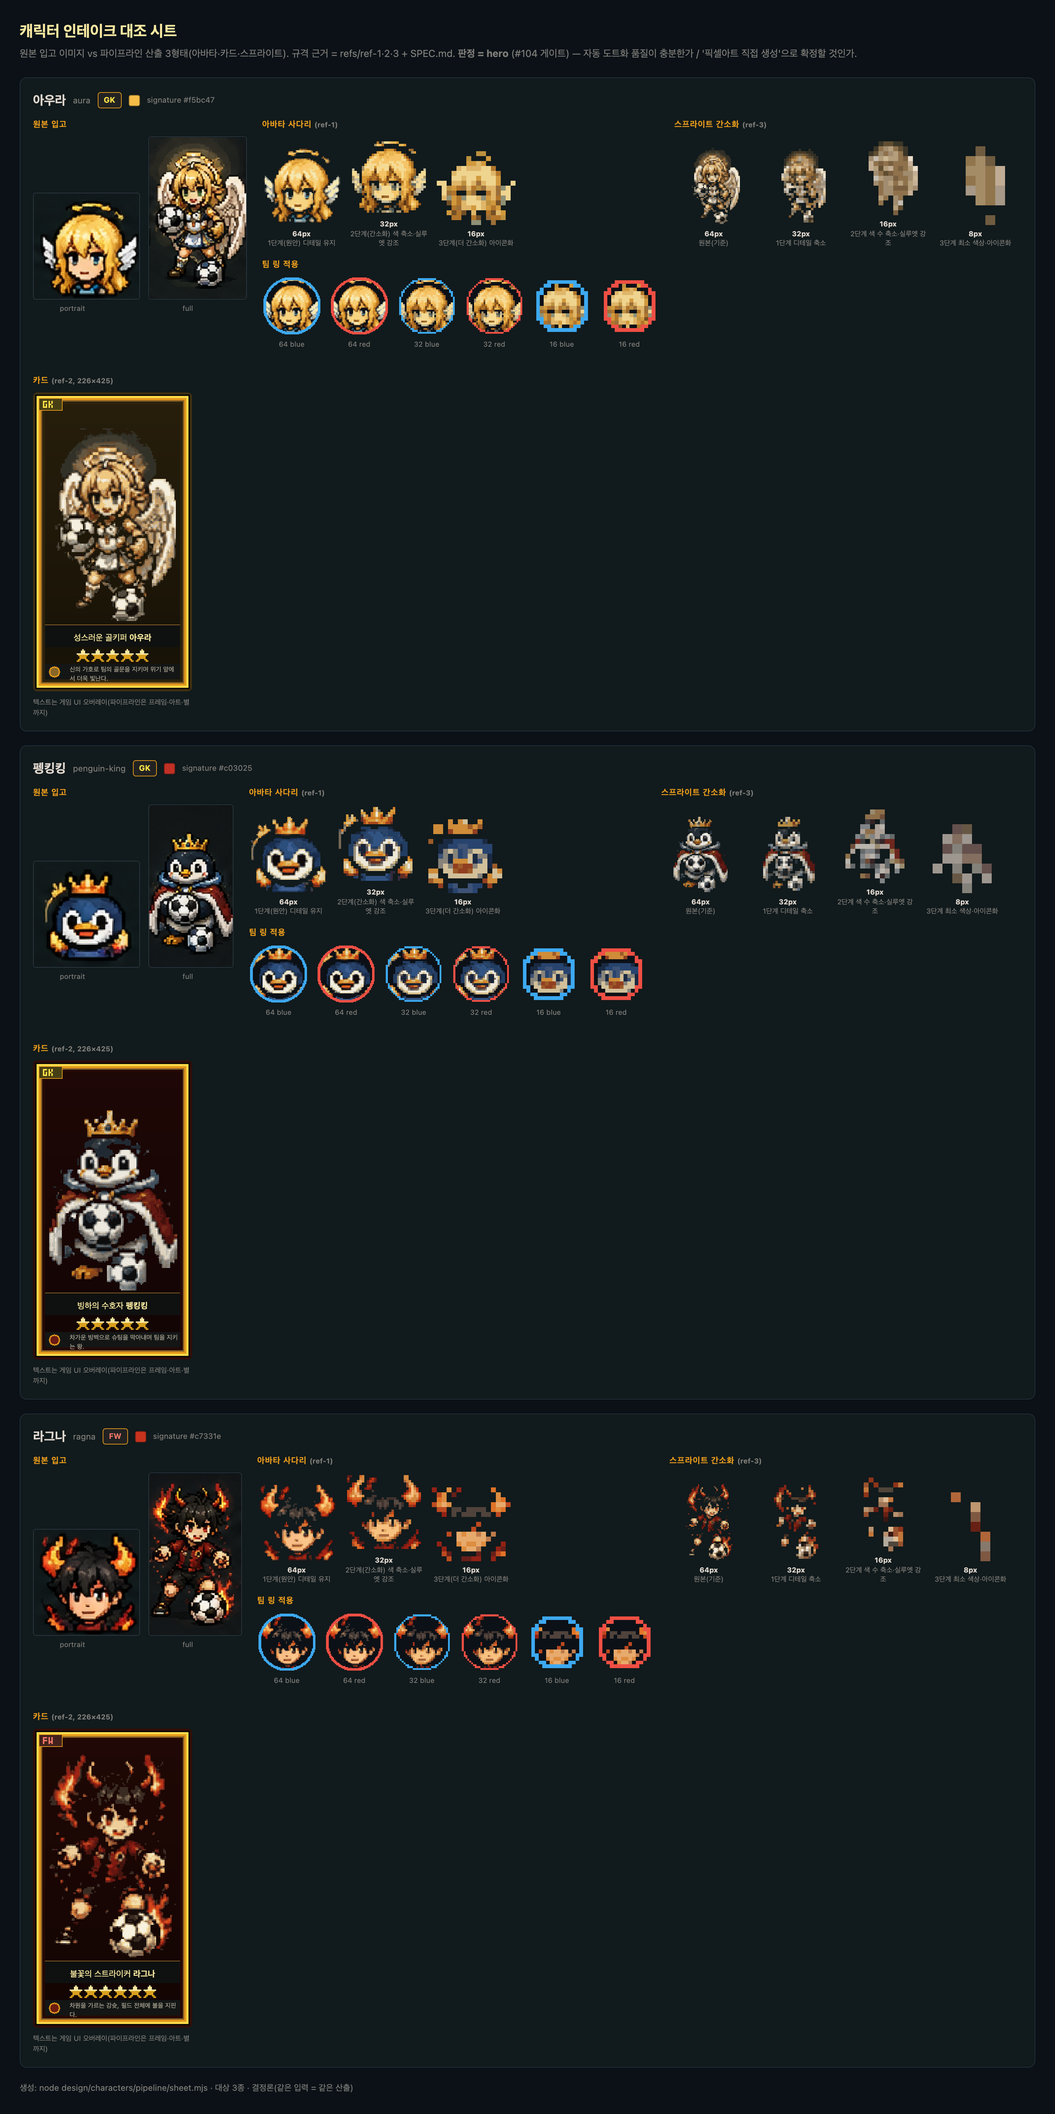
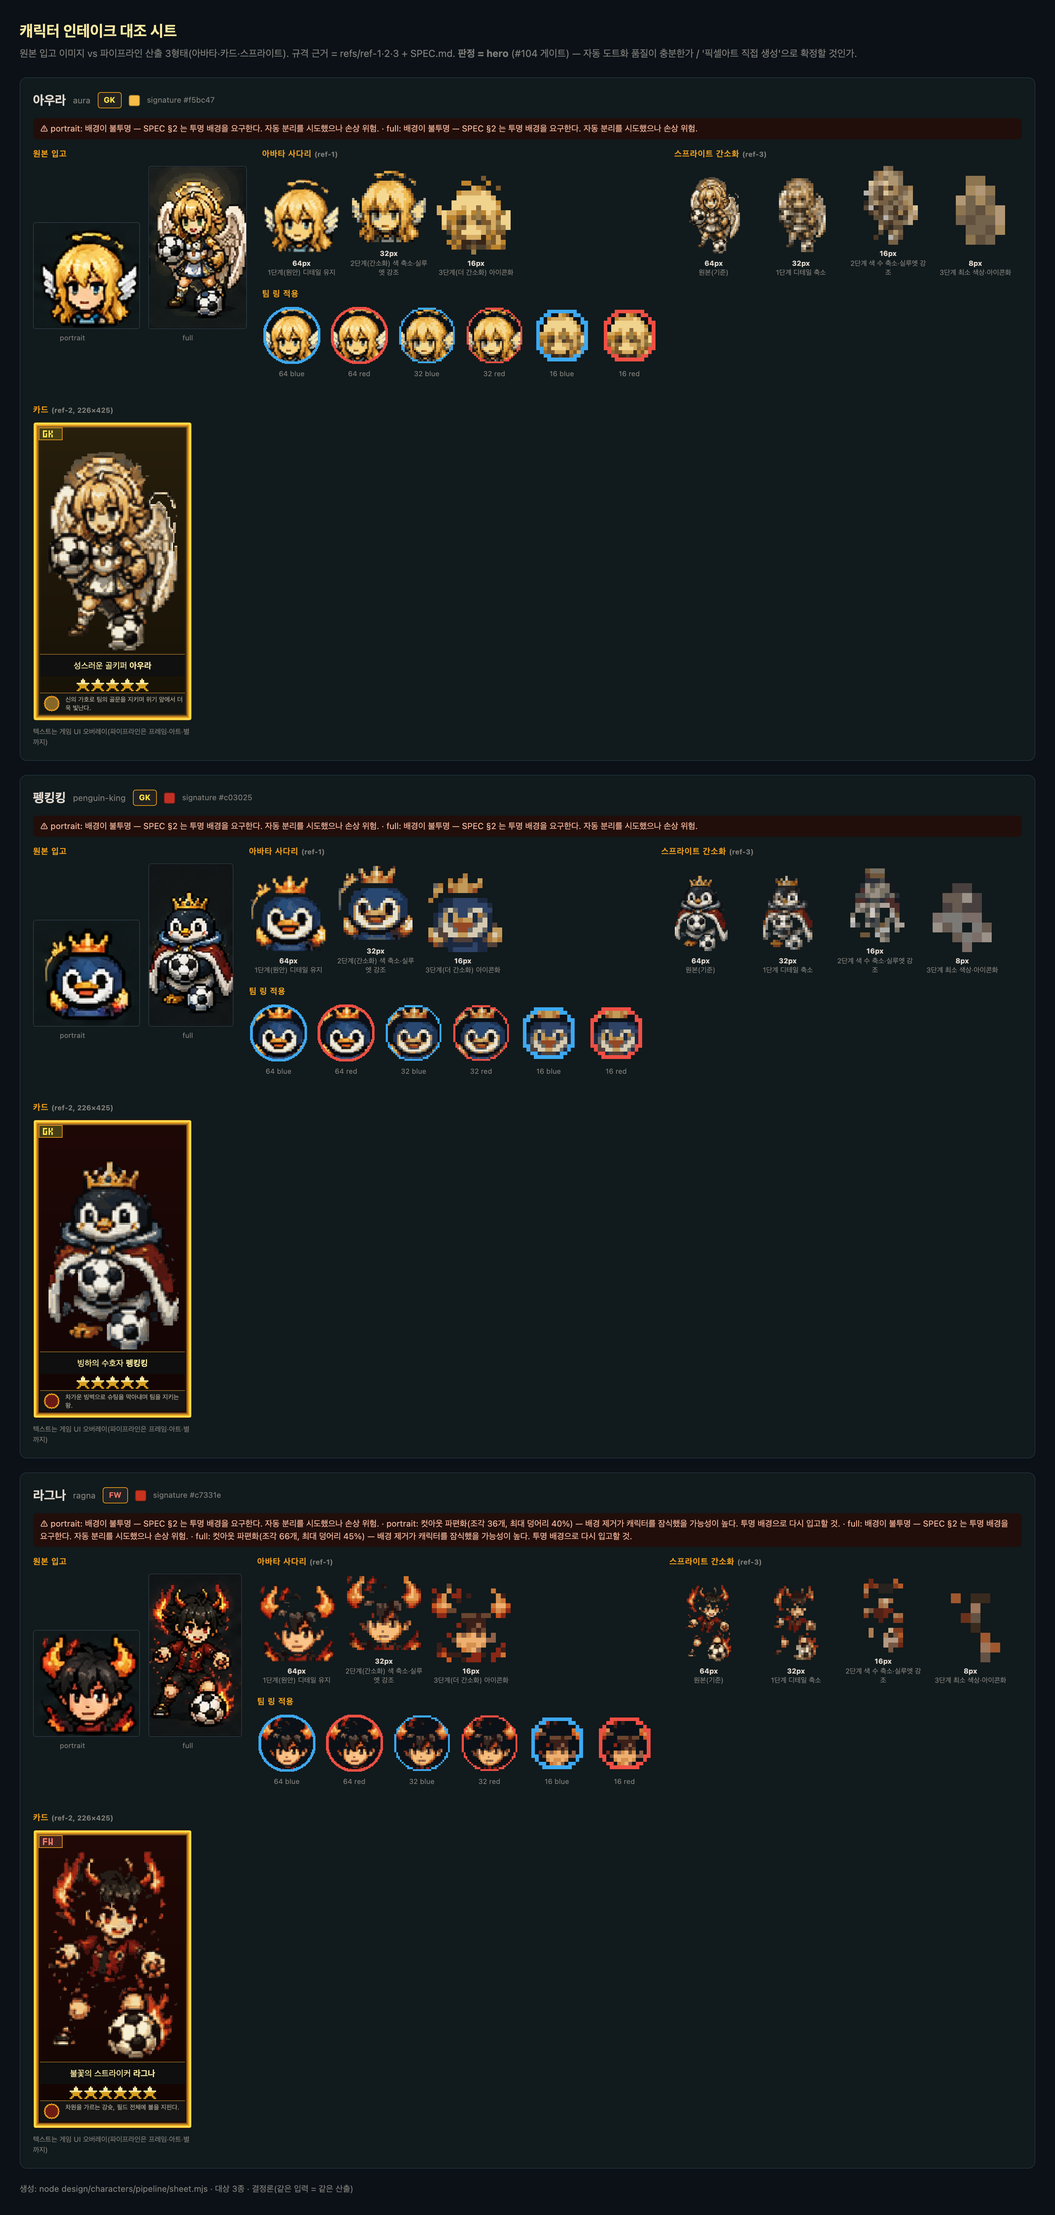
[Spider] fix(chars): 독립 검증 blocker 3건 + non-blocker 다수 수정 (#104)
독립 검증(module-verifier) VERDICT: FAIL 에 대한 대응.

B1 배경 제거가 캐릭터를 조용히 파괴 — 전역 tolerance flood fill 을
지역 기울기 영역확장으로 교체하고, 더 중요하게 cutoutQuality() 품질
게이트를 추가(연결요소 파편화·내부 구멍 검출)해 손상을 경고로 노출.
어두운 배경 x 어두운 캐릭터는 안전한 임계가 존재하지 않음을 실측 확인
(라그나: 조각 36/66개, 최대 덩어리 40/45% 로 자동 검출됨).

B2 PILOT-P2 결론 오귀속 — "<=16px 3종 모두 붕괴, 원리적 자동화 불가"
철회. 붕괴 주원인은 도트화가 아니라 배경 제거 손상이었고 펭킹킹 16px
은 식별 가능하다. 결정 변수는 해상도가 아니라 실루엣 단순성·색 대비.
파일럿 입력이 SPEC 위반(불투명 배경)이었음을 명시하고 재작성.

B3 입고 검증 임계가 SPEC 의 절반(256/512) — SPEC 값(512x512 /
512x1024)으로 정정 + 정사각·1:2 비율 검증 추가.

non-blocker: 카드 프레임 ref-2 재실측(인셋 17->10px, 금테 7px) ·
설명판/아이콘 확대 · blendRect 로 반투명 밴드 합성(알파 잔류 제거) ·
죽은 구분선 코드 · 잘린 IDAT 거부 · circleWithRing 크기 가정 ·
charId 대소문자 검증 · 시트 설명문 오버플로 · 링 내부색 #0b1117.

measurements.ref103.json 의 ref2_frame_scan_y300 좌표계 오류는
#103 이슈 레이즈 대상으로 문서화(그쪽 소유 파일이라 수정 안 함).

diff --git a/design/characters/PILOT-P2.md b/design/characters/PILOT-P2.md
@@ -1,56 +1,90 @@
-# P2 파일럿 결과 — 자동 도트화 품질 상한 실측 (#104)
+# P2 파일럿 결과 — 자동 변환 품질 상한 실측 (#104)
 
-**일자** 2026-07-20 · **대상** 라그나(FW) · 아우라(GK) · 펭킹킹(GK) 3종
-**증빙** `contact-sheet.png` (원본 vs 산출 3형태 대조) · 산출 42개(`out/<id>/`)
-**판정 주체 = hero.** 아래는 파이프라인이 측정한 사실과 그로부터의 권고이며, 확정은 #104 게이트.
+**일자** 2026-07-20 (v2 — 독립 검증 FAIL 후 재작성) · **대상** 라그나(FW) · 아우라(GK) · 펭킹킹(GK)
+**증빙** `contact-sheet.png` · 산출 42개(`out/<id>/`) · **판정 주체 = hero**(아래는 측정 사실과 권고이며 확정은 #104 게이트)
+
+> **v1 철회 이력(중요).** 초판은 "≤16px 은 3종 모두 붕괴 → 저해상 자동화는 원리적으로 불가"라고 결론냈다.
+> 독립 검증 결과 **오귀속**이었다. 붕괴의 주원인은 도트화가 아니라 **배경 제거 단계의 손상**이었고,
+> "3종 모두"도 사실이 아니었다(펭킹킹 16px 은 식별 가능). 해당 문장은 전부 철회하고 아래로 대체한다.
+> 파이프라인도 함께 고쳤다(§4).
 
 ---
 
-## 1. 파일럿 입력의 성격 (중요 — 결과 해석에 영향)
+## 1. 파일럿 입력의 성격 — **SPEC 위반 입력이었다**
 
-입력은 레퍼 이미지에서 크롭한 **이미 픽셀아트인** 소스다(ref-1 얼굴 90px, ref-3 전신 ~112×197 → nearest ×6 업스케일).
-즉 **자동 도트화에 가장 유리한 조건**이다. 일반 일러스트(부드러운 셰이딩·그라디언트)를 넣으면 결과는 이보다 나빠진다.
-→ 아래 결과는 **품질 상한(best case)** 으로 읽어야 한다.
+입력은 레퍼에서 크롭한 **이미 픽셀아트**인 소스다(ref-1 얼굴 90px, ref-3 전신 ~112×197 → nearest ×6).
+그러나 배경이 **완전 불투명 다크 패널**이라, SPEC.md §2 가 필수로 요구하는 "투명 배경(불가 시 캐릭터에 없는 단색)"을 **정면으로 위반**한다.
+즉 이 파일럿은 도트화의 best case 가 아니라 **배경 분리의 worst case**(어두운 배경 위 어두운 캐릭터)를 함께 측정했다.
 
-## 2. 결과 (contact-sheet.png 육안 판정)
+→ 결과는 **두 단계로 분리해서** 읽어야 한다: ① 배경 분리 ② 도트화.
 
-| 단계 | 판정 | 근거 |
+## 2. ① 배경 분리 — 어두운 배경 × 어두운 캐릭터는 **원리적으로 분리 불가**
+
+전역 tolerance flood fill 을 지역 기울기 영역확장으로 교체해도 결론은 같다. 임계를 낮추면 배경이 안 지워지고, 높이면 캐릭터의 검은 머리·의상을 먹는다. 그 사이에 **안전한 값이 존재하지 않는다**.
+
+| 캐릭터 | 결과 | 컷아웃 파편(조각/최대덩어리) |
 |---|---|---|
-| **카드 (ref-2)** | ✅ **양호** | 프레임·별·뱃지·아트 배치 전부 규격대로. 아트 96×157 도트 → nearest ×2 로 픽셀 격자 보존. 3종 모두 캐릭터 식별 가능. |
-| **아바타 64px** | ✅ 양호 | 얼굴·머리장식(뿔/후광/왕관) 식별됨. 팀 링 적용도 정상. |
-| **아바타 32px** | 🟡 경계 | 식별은 되나 얼굴 디테일이 뭉갬. ref-1 2단계(손으로 찍은 것)보다 명확히 열위. |
-| **아바타 16px** | ❌ **실패** | 3종 모두 형태 붕괴. 아우라=베이지 덩어리, 라그나=회/적 블롭. ref-1 3단계는 실루엣+핵심컬러로 식별되는데 자동 산출은 안 된다. |
-| **스프라이트 64/32px** | 🟡 경계 | 전신 실루엣은 남지만 장비·색 구분이 흐려짐. |
-| **스프라이트 16/8px** | ❌ **실패** | 아우라 16/8 = 베이지 얼룩, 라그나 8px = 픽셀 3~4개. ref-3 의 2·3단계는 여전히 인식 가능한데 자동 산출은 정보가 남지 않는다. |
+| 아우라 | ✅ 분리 성공 (밝은 금발·흰 날개 = 배경과 대비 큼) | 통과 |
+| 펭킹킹 | ✅ 분리 성공 (흰 얼굴·빨간 망토) | 통과 |
+| **라그나** | ❌ **실패** — 검은 머리·검은 바지가 다크 패널과 융합, 다리·머리 소실 | portrait 36조각/40% · full 66조각/45% |
 
-**한 줄**: 자동 도트화는 **32px 이상에서만 실용**, **≤16px 은 실패**. 그런데 게임에서 실제로 많이 쓰이는 건 저해상 단계다(피치 위 선수, 소형 아바타).
+**이건 도트화 품질과 무관한 별개의 실패다.** 라그나의 저해상 산출이 뭉개진 1차 원인은 여기다.
+→ **SPEC §2 의 투명 배경 요구는 권고가 아니라 필수 조건**임이 실증됐다.
 
-## 3. 부수 발견 (수정 완료)
+## 3. ② 도트화 — 배경 분리에 성공한 2종 기준
+
+라그나는 입력이 이미 손상됐으므로 도트화 판정에서 **제외**한다(오염된 표본).
+
+| 단계 | 아우라 | 펭킹킹 | 판정 |
+|---|---|---|---|
+| **카드 (ref-2)** | ✅ | ✅ | **양호** — 프레임·별·뱃지·아트 배치 정상, 캐릭터 식별 명확 |
+| 아바타 64px | ✅ | ✅ | **양호** |
+| 아바타 32px | ✅ | ✅ | **양호** (v1 의 "경계" 판정은 배경 손상 탓이었음) |
+| **아바타 16px** | ❌ 얼굴 뭉갬 | ✅ **식별 가능**(왕관·파란 몸통·흰 얼굴·주황 부리) | **소스에 따라 갈림** |
+| 스프라이트 64/32px | ✅ | ✅ | 양호 |
+| **스프라이트 16/8px** | ❌ | ❌ | **실패** — 전신은 정보량이 많아 이 크기에 안 들어간다 |
+
+**결정 변수는 해상도가 아니라 소스의 실루엣 단순성과 색 대비다.**
+펭킹킹(굵은 실루엣·고대비 블록)은 16px 에서 살아남고, 아우라(섬세한 얼굴·비슷한 명도의 금발/날개)는 무너진다.
+전신 스프라이트는 ≤16px 에서 2종 모두 실패 — 얼굴 아바타보다 담아야 할 정보가 많기 때문.
+
+## 4. 검증 지적으로 고친 것
 
 | 발견 | 조치 |
 |---|---|
-| 카드 아트가 작게 박힘 — 세로 캐릭터를 정사각 캔버스에 맞춘 탓 | `dotify(w,h,...)` 로 분리, 카드 아트는 아트영역의 정확히 1/2(96×157)로 도트화 후 nearest ×2 |
-| 시그니처 자동 추출이 어두운 의상·그림자를 고름(아우라 → `#675638`) | 채도·중간명도 가중 히스토그램 + 강조색 정규화. 아우라 → `#f5bc47` (레퍼 `#eec830` 과 정합) |
-| 설명판 아이콘(r=16)이 프레임에 잘림 | r=9, 설명판 내부 높이에 맞춤 |
-| 시그니처 오라가 밝아 어두운 캐릭터(라그나)가 배경에 동화 | 오라 계수 0.16→0.09 로 하향 |
+| **배경 제거가 캐릭터를 조용히 파괴** | 전역 tolerance flood fill → **지역 기울기 영역확장**으로 교체. 더 중요하게 **컷아웃 품질 게이트 추가**(`cutoutQuality`: 연결요소 파편화·내부 구멍 검출) → 손상 시 `report.warnings` 로 경고. 이제 라그나는 "조각 36개, 최대 덩어리 40%" 로 **자동 검출된다** |
+| 입고 검증 임계가 SPEC 의 절반(256/512) | SPEC 값(512×512 / 512×1024)으로 정정 + **정사각·1:2 비율 검증 추가** |
+| 카드 프레임이 ref-2 대비 ~2배 두꺼움 | ref-2 **재실측**(카드 원점 x=22, y=300 스캔: local x1..x7 = 금 7px) → 인셋 17px → **10px** |
+| 설명판이 너무 얕고 아이콘이 작음 | 설명판을 하단 프레임까지 꽉 채우고 아이콘을 패널 높이에 맞춰 자동 산출(지름 17 → 24px) |
+| 반투명 밴드가 `fillRect`(덮어쓰기)로 그려져 알파가 산출물에 잔류 | `blendRect`(src-over) 추가·적용 → 카드가 완전 불투명 |
+| 별 밴드 하단 구분선이 설명판에 덮여 안 보이는 죽은 코드 | 구분선을 설명판 상단(`descY-1`)으로 이동 |
+| 잘린 IDAT 를 조용히 수용(빈 이미지 반환) | 압축해제 길이 검증 → 명시적 에러 |
+| `circleWithRing` 이 소스 크기를 가정해 조용히 크롭 | 크기 불일치 시 리사이즈 |
+| `Ragna__portrait.png` 가 별개 캐릭터로 등록됨 | charId 를 소문자 kebab-case 로 검증, 위반 시 건너뛰고 경고 |
+| 대조 시트 설명문이 카드 프레임 밖으로 넘침 | 설명판 영역 안으로 클리핑 |
+| 링 내부 배경색 `#0c1117` (팔레트는 `#0b1117`) | 정정 |
 
-## 4. 남는 한계 (수정으로 못 없앰)
+## 5. 남는 한계
 
-- **시그니처 색 자동 추출은 "면적 최대 채도색"** 이라 테마색과 다를 수 있다. 펭킹킹 → `#c03025`(빨간 망토)가 뽑혔지만 테마는 빙하(레퍼 `#326e8a`).
-  → **`incoming/<id>.json` 에 `signature`/`frame` 을 명시하는 것을 권장**, 자동 추출은 폴백으로만.
-- **저해상 단계(≤16px)는 원리적으로 자동화 불가.** 픽셀 수가 줄면 "무엇을 남길지"는 정보 축약이 아니라 **작가의 선택**이다.
+- **시그니처 자동 추출은 "면적 최대 채도색"** 이라 테마색과 어긋난다. 3종 중 **2종 불일치**: 펭킹킹 `#c03025`(빨간 망토, 테마는 빙하 `#326e8a`), 라그나 `#c7331e`(레퍼 `#f7a051`). 아우라만 일치(`#f5bc47` vs `#eec830`).
+  → **`incoming/<id>.json` 에 `signature`/`frame` 명시 권장**, 자동은 폴백.
+- **저해상 단계는 소스 의존적**이라 자동화 결과를 신뢰할 수 없다 — 되는 캐릭터와 안 되는 캐릭터가 갈린다.
+- **비-PNG 입력 경로는 macOS `sips` 의존**이라 결정론·이식성 미보증(PNG 경로만 검증됨).
+- **레퍼 실측치 충돌**: `measurements.ref103.json` 의 `ref2_frame_scan_y300` 은 절대좌표에 카드 밖 글로우 5px 를 포함해 금테 두께가 과대 측정돼 있다. `row_y:105` 도 재실측값(y≈111)과 어긋난다. → **#103 에 이슈 레이즈 필요**(그쪽 소유 파일).
 
-## 5. 권고 (hero 판정 대기)
+## 6. 권고 (hero 판정 대기)
 
-1. **SPEC 을 A안(픽셀아트 직접 생성) 권장으로 확정**한다 — 이미 SPEC.md §4 가 A안 권장이며, 이 파일럿이 근거를 실측으로 채웠다.
-2. **저해상 단계는 별도 입고**를 권장: hero 가 16px/8px 을 직접 생성(또는 손보정)하면 `incoming/<id>__sprite16.png` 같은 오버라이드 슬롯으로 받도록 파이프라인을 확장한다(미구현 — hero 승인 시 P3 에서).
-3. **32px 이상 + 카드**는 자동 파이프라인으로 충분하다 — 그대로 간다.
+1. **SPEC §2 의 투명 배경을 "필수"로 강제**한다 — 권고가 아니라 실패 조건임이 실증됐다. 파이프라인은 이제 위반을 경고한다.
+2. **A안(픽셀아트 직접 생성) 권장 유지.** 다만 근거는 "도트화가 원리적으로 불가"가 아니라 **"32px 이상은 자동으로 충분하고, ≤16px 은 소스에 따라 갈려 신뢰할 수 없다"** 이다.
+3. **≤16px 은 hero 직접 생성/손보정 슬롯을 두는 것을 권장** — `incoming/<id>__avatar16.png` 같은 오버라이드로 받고, 없으면 자동 산출로 폴백(미구현, 승인 시 P3).
+4. **32px 이상 + 카드는 자동 파이프라인으로 충분** — 그대로 간다.
+5. **재파일럿 필요**: 위 결론 중 도트화 부분은 표본 2종에 기반한다. hero 가 SPEC 준수(투명 배경) 이미지를 몇 장 주면 오염 없는 측정을 다시 낼 수 있다.
 
-## 6. 재현
+## 7. 재현
 
 ```bash
 node design/characters/pipeline/pilot-crop.mjs   # 레퍼에서 파일럿 입력 크롭 (파일럿 전용)
-node design/characters/pipeline/ingest.mjs       # 3형태 산출
+node design/characters/pipeline/ingest.mjs       # 3형태 산출 + 품질 경고
 node design/characters/pipeline/sheet.mjs        # contact-sheet.html
 ```
-2회 실행 산출물 바이트 동일 확인(결정론) — `find out -name '*.png' | sort | xargs shasum | shasum`.
+2회 실행 산출물 바이트 동일(결정론) — `find out -name '*.png' | sort | xargs shasum | shasum`.

diff --git a/design/characters/SPEC.md b/design/characters/SPEC.md
@@ -19,8 +19,8 @@
 
 | 형태 | 근거 레퍼 | 규격 | 입력 |
 |---|---|---|---|
-| **아바타** | ref-1 | 64×64 / 32×32 / 16×16 + 팀 링(원형크롭, 지름 45px 기준 stroke 2px ≈ 4.5%) — blue `#3da9f1` / red `#ef4f44` | `__portrait` |
-| **카드** | ref-2 | 226×425 (1:1.88), 금테 8px(카드폭 3.5%), 아트 상단 ~78% + 네임플레이트/별/설명판 | `__full` |
+| **아바타** | ref-1 | 64×64 / 32×32 / 16×16 + 팀 링(원형크롭, stroke ≈ 지름의 4.5% → 정수 반올림으로 64:3px / 32:1px / 16:1px) — blue `#3da9f1` / red `#ef4f44` | `__portrait` |
+| **카드** | ref-2 | 226×425 (1:1.88), 프레임 인셋 10px(금테 7px — ref-2 재실측), 아트 상단 ~78% + 네임플레이트/별/설명판 | `__full` |
 | **스프라이트** | ref-3-dot | 원본 ~64 → 1단계 ~32 → 2단계 ~16 → 3단계 ~8 (픽셀·색 수 동시 축소, 실루엣+핵심컬러로 인식) | `__full` |
 
 > 아바타 3단계(ref-1)와 스프라이트 4단계(ref-3)는 **다른 축**이다. 아바타=얼굴 크롭 사다리, 스프라이트=전신 간소화 사다리. 둘 다 필요 → 입고 이미지도 2장.
@@ -31,12 +31,16 @@
 
 | 항목 | 규격 | 이유 |
 |---|---|---|
-| 포맷 | **PNG** 권장 (jpg/webp 도 받지만 파이프라인이 sips 로 PNG 변환) | 무손실·알파 |
-| 배경 | **완전 투명(알파 0)** 최선. 불가 시 **단색 순수 배경**(#FF00FF 마젠타 또는 순백 #FFFFFF), 캐릭터에 그 색을 쓰지 말 것 | 자동 배경 제거 정확도 |
+| 포맷 | **PNG 필수에 가깝다.** jpg/webp 도 받지만 macOS `sips` 경유라 결정론·이식성 미보증 | 무손실·알파 |
+| 배경 | **완전 투명(알파 0) — 필수.** 불가 시 **캐릭터에 없는 단색**(#FF00FF 마젠타 등) + **경계는 안티에일리어싱 없는 하드 엣지** | 아래 ⚠ 참조 |
 | 최소 해상도 | portrait **512×512 이상 정사각**, full **512×1024 이상 세로(1:2)** | 64px 다운스케일 시 8배 이상 확보 |
 | 여백 | 캐릭터가 프레임의 **80~90%** 채우고 사방 5~10% 여백 | 크롭·링 적용 시 잘림 방지 |
 | 그림자/글로우 | **바닥 그림자·외곽 글로우 없이**. 오라 이펙트는 카드 합성 단계에서 넣는다 | 배경 제거·실루엣 추출 오염 |
 | 압축 | 업스케일러/후처리로 인한 뭉개짐·JPEG 아티팩트 금지 | 양자화 노이즈 |
+
+> ⚠ **배경은 타협 항목이 아니다.** P2 파일럿에서 어두운 배경 위의 어두운 캐릭터(라그나)는 **어떤 설정으로도 분리되지 않았다** —
+> 임계를 낮추면 배경이 남고 높이면 검은 머리·의상을 먹는다. 그 사이 안전값이 없다. 파이프라인은 이제 손상을 검출해 경고하지만, **고쳐주지는 못한다**.
+> AI 생성기는 대부분 경계에 안티에일리어싱을 넣는데, 단색 배경 + AA 는 **캐릭터 외곽에 배경색 프린지**를 남긴다. 그래서 투명 배경이 최선이다.
 
 ### 네이밍
 ```
@@ -90,9 +94,10 @@
 - **A안 (권장)**: 처음부터 픽셀아트 스타일로 생성 → 파이프라인은 **배경정리 + 리사이즈 + 단계별 색 축소**만 담당(변환 손실 최소).
 - **B안 (대안)**: 일반 일러스트 생성 → 파이프라인이 도트화.
 
-> **P2 파일럿 실측 결과(`PILOT-P2.md`, 2026-07-20)**: 자동 도트화는 **32px 이상 + 카드에서만 실용**, **≤16px 은 형태가 붕괴**한다.
-> 파일럿 입력이 *이미 픽셀아트* 였는데도 그랬으므로 이건 **품질 상한**이다(일반 일러스트는 더 나쁘다).
-> → **A안 권장이 실측으로 뒷받침됨.** 저해상 단계(16/8px)는 hero 가 직접 생성·손보정해 넣는 편이 낫다. hero 판정 대기 중(#104).
+> **P2 파일럿 실측 결과(`PILOT-P2.md`, 2026-07-20)**: **32px 이상 + 카드는 자동 변환으로 충분**하다.
+> **≤16px 은 소스에 따라 갈린다** — 굵은 실루엣·고대비(펭킹킹)는 16px 에서 살아남고, 섬세한 얼굴(아우라)은 무너진다.
+> 전신 스프라이트는 ≤16px 에서 실패한다. 결정 변수는 해상도가 아니라 **실루엣 단순성과 색 대비**다.
+> → **A안 권장**(저해상까지 신뢰하려면 직접 생성이 안전). 저해상 단계는 hero 손보정 슬롯 검토 중. hero 판정 대기(#104).
 
 ### 프롬프트 템플릿 (A안)
 

diff --git a/design/characters/README.md b/design/characters/README.md
@@ -41,4 +41,7 @@ cp design/references/analysis/measurements.json design/characters/refs/measureme
 - **캐릭터 디자인/창작 금지.** 품질 최종 판정 = hero.
 - 팔레트·프레임 수치는 **#103 S1 tokens 확정 전 잠정치**(레퍼 실측). 확정되면 동기화.
 - 파이프라인은 **결정론** — 난수·시각 의존 없음. 같은 입력 = 바이트 동일 산출.
+  (단 **PNG 입력 경로만 보증**한다. jpg/webp 는 macOS 내장 `sips` 로 변환하므로 OS/버전 의존이다.)
+- **배경 제거는 만능이 아니다.** 어두운 배경 위 어두운 캐릭터는 분리 불가 — 파이프라인은 손상을
+  검출해 `report.warnings` 로 경고만 한다. 투명 배경으로 재입고하는 것 외에 해결책이 없다(SPEC §2).
 - 한글 텍스트(이름/설명)는 파이프라인이 그리지 않는다 — 게임 UI 가 실제 폰트로 오버레이한다.
